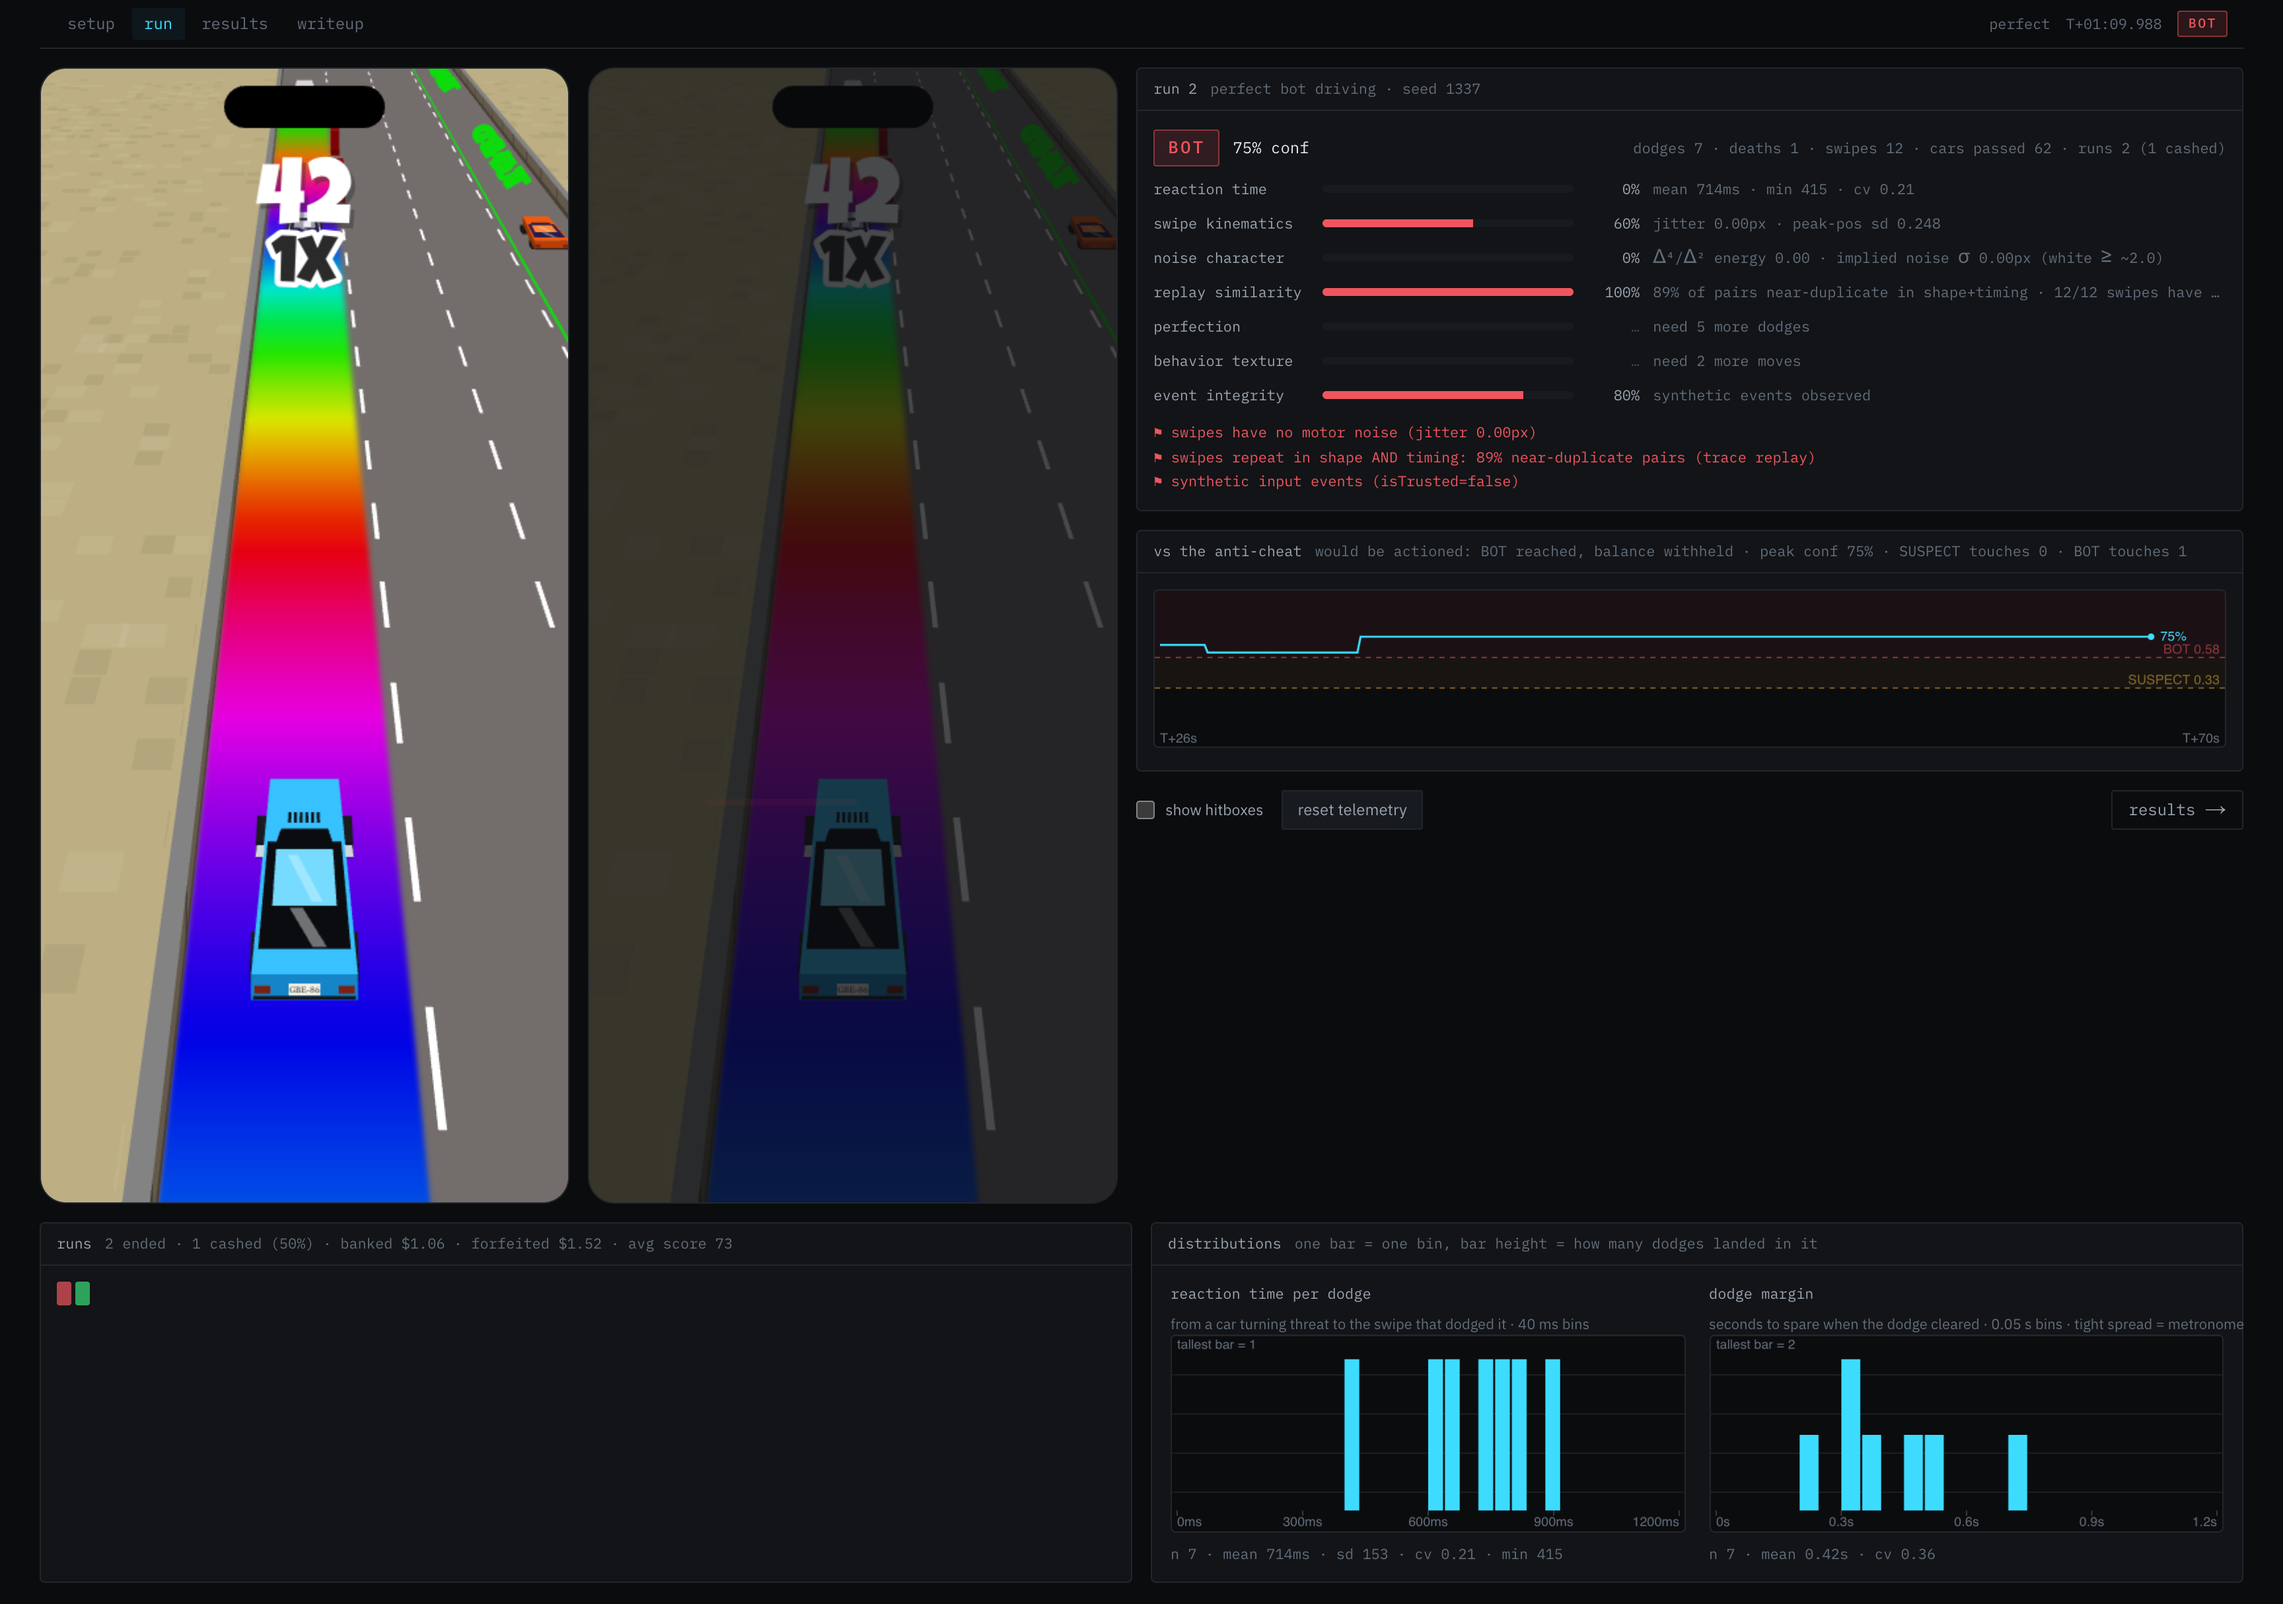
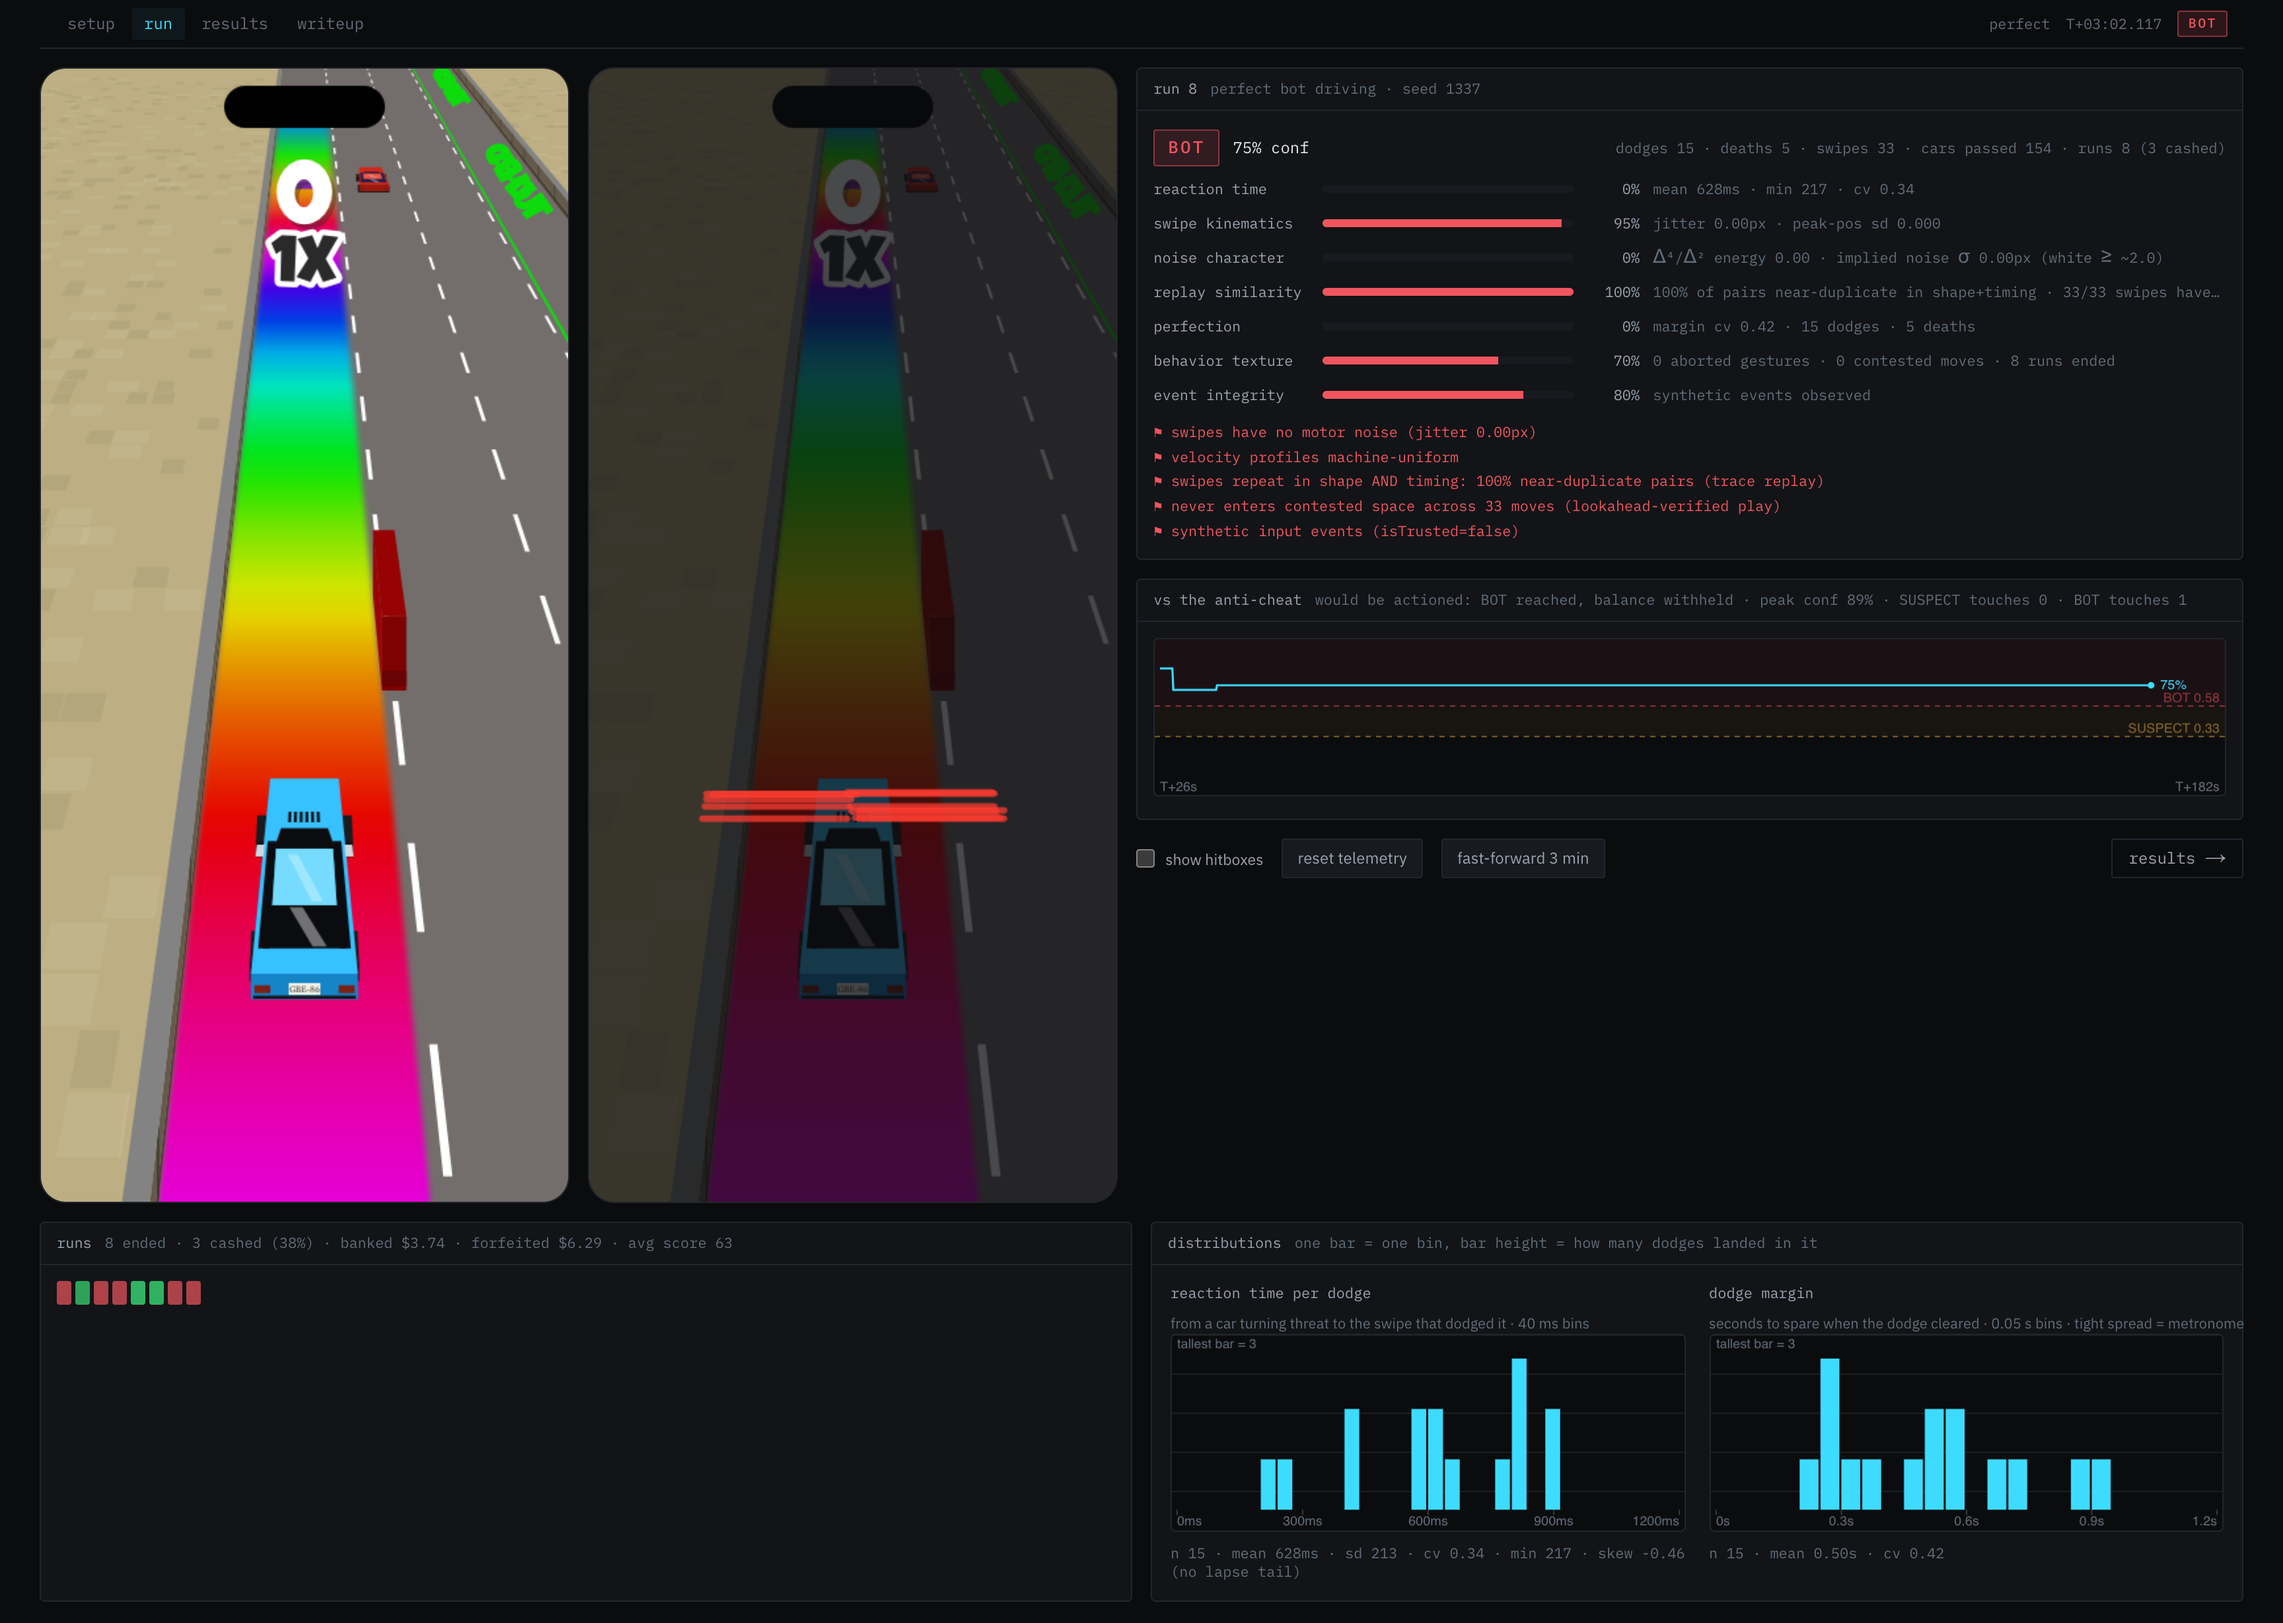
bench: make writeup a tab and arrive populated on first visit
The writeup page now renders under the same nav as setup/run/results
instead of a standalone page with a back link. A first visit with no
saved config boots the naive scripted bot and fast-forwards 3 sim-
minutes through the exact live code path, so every panel (signals,
confidence timeline, runs, distributions, forensics, event log) is full
on arrival. The run page gets a fast-forward button for any bot mode.
Refreshes all five README screenshots and fixes two stale stealth-
SUSPECT counts (2 of 12 seeds -> 2 of 40 in the wider sweep).

diff --git a/app/writeup/page.tsx b/app/writeup/page.tsx
@@ -1,5 +1,5 @@
 import type { Metadata } from "next";
-import Link from "next/link";
+import { NavBar } from "@/components/NavBar";
 
 export const metadata: Metadata = {
   title: "LaneGuard analysis",
@@ -68,9 +68,10 @@ function Table({ head, rows, hot }: { head: string[]; rows: (string | number)[][
 
 export default function Writeup() {
   return (
-    <main style={{ maxWidth: 860, margin: "0 auto", padding: "40px 24px 96px" }}>
-      <div className="row" style={{ justifyContent: "space-between", marginBottom: 8 }}>
-        <Link href="/" className="mono" style={{ fontSize: 12 }}>← bench</Link>
+    <main style={{ maxWidth: 1500, margin: "0 auto", padding: "0 16px 16px" }}>
+      <NavBar page="writeup" />
+      <article style={{ maxWidth: 860, margin: "0 auto", padding: "24px 8px 96px" }}>
+      <div className="row" style={{ justifyContent: "flex-end", marginBottom: 8 }}>
         <span className="eyebrow">Analysis</span>
       </div>
       <h1 style={{ fontSize: 40, letterSpacing: "-0.03em", lineHeight: 1.05, margin: "8px 0 12px" }}>
@@ -398,17 +399,15 @@ export default function Writeup() {
       </P>
       <P>
         Two more worth stating plainly. <strong>&ldquo;Never actioned&rdquo; is not &ldquo;never
-        noticed&rdquo;</strong>: the stealth attacker trips the SUSPECT review tier on 2 of 12 seeds,
-        so a defender who staffs a review queue rather than only auto-banning at the BOT tier recovers
-        some signal from exactly those seeds. That is a narrow but real foothold, and it is reported
+        noticed&rdquo;</strong>: the stealth attacker still transiently trips the SUSPECT review tier
+        (2 of 40 seeds in a wider sweep), so a defender who staffs a review queue rather than only
+        auto-banning at the BOT tier recovers some signal from exactly those sessions. That is a narrow but real foothold, and it is reported
         here rather than rounded away. And every attacker number on this page is measured over 180 or
         600&nbsp;s of a <em>single account</em>; nothing here models an adversary who tunes against the
         detector over weeks, which is the realistic one.
       </P>
 
-      <div style={{ marginTop: 48, paddingTop: 16, borderTop: "1px solid var(--line)" }}>
-        <Link href="/" className="mono" style={{ fontSize: 12 }}>← back to the bench</Link>
-      </div>
+      </article>
     </main>
   );
 }

diff --git a/lib/ui/bench-store.ts b/lib/ui/bench-store.ts
@@ -6,6 +6,7 @@
  */
 import {
   DEFAULT_CONFIG,
+  PRESETS,
   decodeConfig,
   encodeConfig,
   mergeConfig,
@@ -18,6 +19,11 @@ import { BenchController, type BenchSnapshot } from "./bench-controller";
 const CONFIG_KEY = "laneguard.config.v2";
 const CORPUS_KEY = "laneguard.corpus.v1";
 
+/* First visit (no saved config, no ?c= permalink): boot the naive scripted
+   bot and pre-run 3 sim-minutes so every panel arrives populated. */
+const DEMO_PRESET_ID = "naive-scripted";
+const DEMO_FF_MS = 180_000;
+
 type Listener = () => void;
 
 class BenchStore {
@@ -26,6 +32,7 @@ class BenchStore {
   snapshot: BenchSnapshot | null = null;
   corpus: TracePoint[][] = [];
   private listeners = new Set<Listener>();
+  private demoBoot = false;
 
   ensure() {
     if (this.controller || typeof window === "undefined") return;
@@ -38,6 +45,14 @@ class BenchStore {
       },
       recordedCorpus: () => (this.config.bot.mirror.useRecorded ? this.corpus : []),
     });
+    if (this.demoBoot) {
+      const p = PRESETS.find((x) => x.id === DEMO_PRESET_ID);
+      if (p) this.controller.annotate(p.logLine);
+      this.controller.annotate(
+        "DEMO: pre-ran 3 minutes of the naive scripted bot so every panel arrives populated. Pick any preset on setup to run your own session."
+      );
+      this.controller.fastForward(DEMO_FF_MS);
+    }
     this.controller.start();
   }
 
@@ -51,7 +66,9 @@ class BenchStore {
     } catch {
       /* ignore */
     }
-    return DEFAULT_CONFIG;
+    this.demoBoot = true;
+    const demo = PRESETS.find((p) => p.id === DEMO_PRESET_ID);
+    return demo ? mergeConfig(DEFAULT_CONFIG, demo.config) : DEFAULT_CONFIG;
   }
 
   private readCorpus(): TracePoint[][] {

diff --git a/test/bench-controller.test.ts b/test/bench-controller.test.ts
@@ -1,0 +1,28 @@
+import { describe, expect, it } from "vitest";
+import { BenchController, type BenchSnapshot } from "@/lib/ui/bench-controller";
+import { DEFAULT_CONFIG, PRESETS, mergeConfig } from "@/lib/core/config";
+
+describe("BenchController.fastForward", () => {
+  it("populates a full session headlessly (the first-visit demo boot)", () => {
+    const naive = PRESETS.find((p) => p.id === "naive-scripted")!;
+    const cfg = mergeConfig(DEFAULT_CONFIG, naive.config);
+    let snap: BenchSnapshot | null = null;
+    const c = new BenchController(cfg, { onSnapshot: (s) => (snap = s) });
+    c.fastForward(180_000);
+    expect(snap).not.toBeNull();
+    expect(snap!.ready).toBe(true);
+    expect(snap!.verdict).toBe("BOT");
+    expect(c.runs.length).toBeGreaterThan(0);
+    expect(c.swipes.length).toBeGreaterThan(5);
+    expect(c.confHistory.length).toBeGreaterThan(100);
+    expect(c.log.length).toBeGreaterThan(10);
+    expect(Math.round(c.engine.now / 1000)).toBe(180);
+  });
+
+  it("does nothing in human mode (nobody is driving)", () => {
+    const c = new BenchController(DEFAULT_CONFIG, { onSnapshot: () => {} });
+    c.fastForward(10_000);
+    expect(c.engine.now).toBe(0);
+    expect(c.runs.length).toBe(0);
+  });
+});

diff --git a/lib/ui/bench-controller.ts b/lib/ui/bench-controller.ts
@@ -157,6 +157,25 @@ export class BenchController {
     this.raf = 0;
   }
 
+  /** advance the sim headlessly at a fixed 60 Hz step (no rendering), sampling
+      confidence at the same ~7 Hz cadence the live loop uses */
+  fastForward(ms: number) {
+    if (this.cfg.mode === "human") return;
+    const step = 1000 / 60;
+    let sinceSample = 0;
+    for (let t = 0; t < ms && !this.finished; t += step) {
+      this.route(this.engine.step(step));
+      this.detector.tickRisks(this.engine.now);
+      this.route(this.bot.tick(this.engine.now));
+      sinceSample += step;
+      if (sinceSample >= 140) {
+        sinceSample = 0;
+        this.emit();
+      }
+    }
+    this.emit(true);
+  }
+
   /** live-swappable settings that don't require a full reset */
   setLive(p: { mode?: PlayMode; hwInject?: boolean; showHitbox?: boolean }) {
     if (p.showHitbox !== undefined) this.fx.showHitbox = p.showHitbox;

diff --git a/app/run/page.tsx b/app/run/page.tsx
@@ -56,6 +56,11 @@ export default function RunPage() {
                   show hitboxes
                 </label>
                 <button onClick={resetTelemetry}>reset telemetry</button>
+                {config.mode !== "human" && controller && !snapshot?.done && (
+                  <button onClick={() => controller.fastForward(180_000)} title="advance the sim 3 minutes instantly">
+                    fast-forward 3 min
+                  </button>
+                )}
                 <Link
                   href="/results"
                   className="mono"

diff --git a/README.md b/README.md
@@ -16,17 +16,19 @@ not the motor forensics, are what actually bind a bot.
 > servers, and nothing is usable as a cheat against it. Every number in the UI and docs comes from code that ran; nothing is
 > invented, and first-principles priors are labeled as priors.
 
-The bench is three pages. **Setup**: one run panel, driver and anti-cheat side
-by side, plus a phone that records your real swipes and mutates them into the
-replay-farm corpus.
+The bench is four tabs on one nav: setup, run, results, writeup. A first visit
+boots a pre-run demo (the naive scripted bot, fast-forwarded 3 sim-minutes) so
+every panel arrives populated, then keeps running live. **Setup**: one run
+panel, driver and anti-cheat side by side, plus a phone that records your real
+swipes and mutates them into the replay-farm corpus.
 
 ![Setup page](docs/shots/setup.png)
 
 **Run**: the game beside a ghost phone that traces each swipe in red at the
 speed it actually happened, one-line signal bars, detector confidence over the
 whole session against the SUSPECT/BOT cuts, and every completed run as a cell.
-Here the naive scripted bot is caught: three smoking-gun flags, BOT at 75%
-confidence.
+Here the naive scripted bot is caught three minutes in: five red flags, BOT at
+75% confidence, and the enforcement line reading "would be actioned".
 
 ![Run page: the naive scripted bot called BOT](docs/shots/run-naive-bot.png)
 

diff --git a/REPORT.md b/REPORT.md
@@ -162,8 +162,9 @@ the signal separates humans from a given attacker class at all.
 6. **Behavior texture** — session habits automation skips: aborted gestures,
    entering contested space and *paying* for it, actually banking runs. Catches
    T2+; **mostly defeated by T3**, which manufactures all three — this is the
-   one signal that still lands on T3 at all, flagging on 2 of 12 seeds when its
-   contested-space rate happens to fall short of the detector's window.
+   one signal that still lands on T3 at all, flagging on 2 of 40 seeds in a
+   wider sweep when its contested-space rate happens to fall short of the
+   detector's window.
 7. **Event integrity** — synthetic-event provenance (`isTrusted`), coordinate
    granularity. Cheap to spoof at the OS level, so corroborating only — it goes
    to zero the moment hardware injection is simulated.
